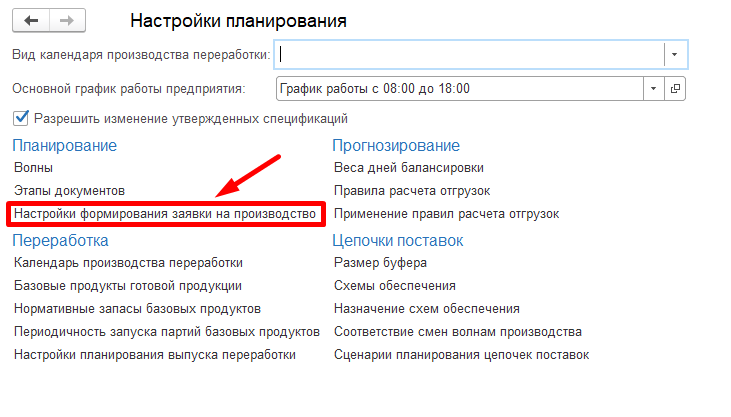
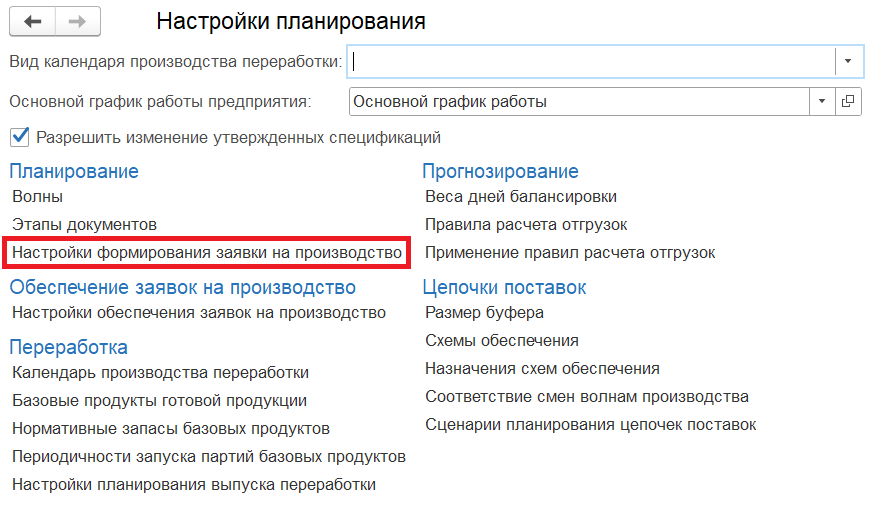
new: обеспечение заявок на производство

Changed region(s): [[0.0, 0.0, 0.9932, 0.9664]]

diff --git a/docs/Planning/ApplicationsForProduction.md b/docs/Planning/ApplicationsForProduction.md
@@ -1,0 +1,134 @@
+# Обеспечение заявок на производство
+
+АРМ **"Обеспечение заявок на производство"** включает функционал разузлования потребности по заявкам на производство, формирования производственных заданий и заказов на перемещение. Он расположен в разделе  **"Обеспечение заявок на производство"** в подсистеме **"Планирование"**.
+
+[![1][1]][1]
+
+Для заполнения настроек АРМа используются ["Настройки обеспечения заявок на производство"](Settings/ApplicationsForProduction.md).
+
+[![2][2]][2]
+
+---
+
+На вкладке **"Потребность по заявкам"** при нажатии на кнопку *"Обновить"* выводится потребность из документа **"Заявка на производство"**, распределенная по [рабочими центрами](../CommonInformation/WorkCenter.md).
+
+[![3][3]][3]
+
+Заявки подбираются по дате планирования (соответствует дате задания из заявки), настройке формирования, виду заявки, этапу для чтения и отборам из указанных в АРМе настроек.
+
+Количество продукции из заявок автоматически распределяется в равных долях между всеми [рабочими центрами](../CommonInformation/WorkCenter.md), на которых выпускается продукция. Если для продукции подобран один [рабочий центр](../CommonInformation/WorkCenter.md), то количество недоступно для редактирования; в других случаях есть возможность отредактировать полученное количество вручную.
+
+---
+
+На вкладке **"Запуск в производство"** при нажатии на кнопку *"Обновить"* происходит разузлование потребности из заявок по всем этапам производственной цепочки - от конечной продукции до сырья.
+
+[![4][4]][4]
+
+Данные в строках верхнего уровня заполняются в соответствии с заявленной потребностью, а последующие строки дерева формируются в процессе разузлования по данным из основных спецификаций. В системе разузлование доступно для продукции с типом *"Полуфабрикат"* и *"Базовый продукт"*, а также для *немаркированной* готовой продукции (в характеристике указан флаг *"Немаркированная продукция"*). 
+
+Если в этапе спецификации указано несколько [рабочих центров](../CommonInformation/WorkCenter.md), то в дереве будут отражены данные по всем [рабочим центрам](../CommonInformation/WorkCenter.md). Склад выпуска заполняется из рабочего центра.
+
+Количество в колонке *"Потребность"* рассчитывается исходя из коэффициента выхода по спецификации и распределяется в равных долях между [рабочими центрами](../CommonInformation/WorkCenter.md).
+
+Кратность партии для данных верхнего уровня будет заполнена согласно данным из заявки на производство, а для строк, разузлованных по спецификациям, получается из настроек партии запуска.
+
+В колонке *"Партионная потребность"* количество заполняется согласно потребности в производстве, округлённой вверх по кратности партии. Например, если количество потребности равно 80, а кратность в спецификации заполнена и равна 50, то партионная потребность будет равна 100. Если кратность партии не указана, то партионная потребность будет равна потребности.
+
+Дата маркировки доступна для заполнения, если она не была указана в заявке на производство. Дата смены заполняется автоматически согласно дате планирования, но для производимой продукции её можно изменить вручную.
+
+По кнопке *"Обеспечить"* рассчитывается **количество к производству**, исходя из потребности и количества остатка, которым можно обеспечить эту потребность.
+
+[![5][5]][5]
+
+В процессе обеспечения для каждой строки дерева производства происходит автоматический расчёт остатка, доступного для обеспечения потребности (частично или полностью). При этом доступный для обеспечения остаток динамически уменьшается, если он уже был использован для обеспечения в строках выше. Итоговое количество к производству по строке будет рассчитано исходя из потребности и обеспечения этой потребности остатком.
+
+При необходимости можно скорректировать количество к производству. Необходимо вносить изменения, начиная с верхнего уровня дерева (например, готовой продукции), последовательно спускаясь к сырью. Если при корректировке количества к производству в какой‑либо строке использовался остаток, то автоматически пересчитаются все нижестоящие строки с учётом обновлённого значения доступного остатка.
+
+По кнопке *"Сохранить"* происходит формирование производственных заданий согласно данным запуска в производство.
+
+[![6][6]][6]
+
+Производственные задания сохраняются согласно настройке *"Объединять запуск в производственных заданиях"*. Если флаг установлен, то производственные задания будут формироваться в разрезе [рабочих центров](../CommonInformation/WorkCenter.md) с суммированием количества одинаковой продукции. Основанием корневого производственного задания будет заявка на производство, все последующие задания сформируются на основании корневого задания. Если флаг не установлен, то для каждой производственной цепочки (от готовой продукции/полуфабриката/базового продукта до сырья) сформируются отдельные производственные задания без объединения количества одинаковой продукции. Основанием корневого производственного задания будет заявка на производство, все последующие задания сформируются на основании предыдущих, отражая цепочку зависимых документов.
+
+Если в процессе разузлования возникли ошибки и они отражены на вкладке **"Ошибки НСИ"**, то при сохранении будет выведено сообщение с вопросом о сохранении документов.
+
+---
+
+На вкладке **"Ошибки НСИ"** выводятся ошибки, полученные в результате разузлования потребности по заявкам. Ошибки показывают отсутствие спецификации для номенклатуры, рабочего центра в этапе производства, склада выпуска в рабочем центре.
+
+[![7][7]][7]
+
+---
+
+На вкладке **"Формирование перемещений"** по кнопке *"Обновить"* происходит расчёт потребности к перемещению со склада на склад. Необходимость обеспечения между складами определяется настройкой *"Требуется обеспечение по складам"* в рабочем центре. Если признак не установлен, то производственные задания по этому рабочему центру не будут участвовать в формировании [заказов на перемещение](../Warehouse/MovingProducts/TransferOrder.md).
+
+[![8][8]][8]
+
+Склад-получатель заполняется согласно складам основных и вспомогательных материалов из рабочего центра. Если склад основных материалов один и совпадает со складом вспомогательных материалов, то склад-получатель заполнится автоматически. При наличии нескольких складов необходимо выбрать склад вручную из доступных вариантов в списке.
+
+[![9][9]][9]
+
+Склад-отправитель будет выбран из склада выпуска, указанного в карточке номенклатуры.
+
+Дата перемещения автоматически устанавливается равной дате смены из производственного задания. При необходимости её можно изменить вручную.
+
+По кнопке *"Обеспечить - С учетом остатка"*, исходя из потребности и количества остатка, которым можно обеспечить эту потребность,  рассчитывается **количество к перемещению**. 
+
+[![10][10]][10]
+
+При обеспечении происходит автоматический расчёт остатка, который может частично или полностью покрыть потребность к перемещению. При этом доступный для обеспечения остаток динамически уменьшается, если он уже был использован для обеспечения в строках выше.
+
+По кнопке *"Обеспечить - Без учета остатка"* количество в колонке *"К перемещению"* заполняется согласно потребности 1 к 1, без учёта остатка.
+
+[![11][11]][11]
+
+Количество к перемещению доступно для редактирования. При внесении изменений в текущей строке остаток пересчитывается, а данные по обеспечению и количеству к перемещению в последующих строках, относящихся к той же продукции и складу, актуализируются.
+
+По кнопке *"Сохранить"* происходит формирование заказов на перемещение на основании производственных заданий.
+
+[![12][12]][12]
+
+Строки с продукцией, по которой введено *"Разрешение на замену материалов"* и доступен выбор аналога, выделены восклицательным знаком. При изменении продукции на аналог количество в колонке *"Потребность"* пересчитается по коэффициенту замены.
+
+[![13][13]][13]
+
+---
+
+**Восстановление контекста**
+
+Функционал восстановления контекста в АРМе предназначен для следующих сценариев:
+
+- раздельное формирование производственных заданий и заказов на перемещение;
+
+- формирование новых заявок на производство (дозаказ) в ходе текущих производственных процессов с последующим обеспечением в АРМе.
+
+В этом случае работа АРМа будет отличаться следующим образом:
+
+На вкладке **"Потребность по заявкам"** при нажатии на кнопку *"Обновить"* будет выведена потребность из документа **"Заявка на производство"** вне зависимости от наличия производственного задания. Однако заявки на производство, по которым уже создано производственное задание, блокируются для редактирования (такие строки выделены серым цветом).
+
+[![14][14]][14]
+
+На вкладке **"Запуск в производство"** при нажатии на кнопку *"Обновить"* данные по заблокированным строкам потребности не восстанавливаются, разузлование происходит только для потребности из заявок без производственных заданий.
+
+[![15][15]][15]
+
+На вкладке **"Формирование перемещений"** при нажатии на кнопку *"Обновить"* будет выведена потребность к перемещению по всем производственным заданиям (и по тем, что относятся к "заблокированным" заявкам, и по созданным производственным заданиям для новых заявок). Однако, если по какой‑либо потребности уже был создан заказ на перемещение, строка будет заблокирована для редактирования (выделена серым цветом).
+
+[![16][16]][16]
+
+[1]: ApplicationsForProduction.assets/1.png
+[2]: ApplicationsForProduction.assets/2.png
+[3]: ApplicationsForProduction.assets/3.png
+[4]: ApplicationsForProduction.assets/4.png
+[5]: ApplicationsForProduction.assets/5.png
+[6]: ApplicationsForProduction.assets/6.png
+[7]: ApplicationsForProduction.assets/7.png
+[8]: ApplicationsForProduction.assets/8.png
+[9]: ApplicationsForProduction.assets/9.png
+[10]: ApplicationsForProduction.assets/10.png
+[11]: ApplicationsForProduction.assets/11.png
+[12]: ApplicationsForProduction.assets/12.png
+[13]: ApplicationsForProduction.assets/13.png
+[14]: ApplicationsForProduction.assets/14.png
+[15]: ApplicationsForProduction.assets/15.png
+[16]: ApplicationsForProduction.assets/16.png

diff --git a/docs/Planning/Settings/ApplicationsForProduction.md b/docs/Planning/Settings/ApplicationsForProduction.md
@@ -1,0 +1,34 @@
+# Настройки обеспечения заявок на производство
+
+**Настройки обеспечения заявок на производство** используются для заполнения настроек в АРМе ["Обеспечение заявок на производство"](../ApplicationsForProduction.md).
+
+Справочник расположен в **"Настройках планирования"** - **"Настройки обеспечения заявок на производство"**.
+
+[![1][1]][1]
+
+В настройке указываются:
+
+[![2][2]][2]
+
+- *Наименование* - наименование настройки планирования;
+- *Дата планирования* - дата планирования для подбора документа **"Заявка на производство"**;
+- *Дата остатков* - дата для подбора остатков;
+- *[Настройка формирования заявки](Planning/SettingsFormingApplicationsForProduction.md)* - настройка с товарными категориями для подбора документа **"Заявка на производство"**;
+- *Вид заявки на производство (Производство, Упаковка и маркировка)* - вид заявки на производство для отбора. Из заявок с видом "Производство" подбирается продукция с типом номенклатуры *"Полуфабрикат", "Базовый продукт" и "Готовая продукция"*. Из заявок с видом "Упаковка и маркировка" подбирается продукция с типом номенклатуры *"Готовая продукция"*;
+- *Объединять запуск в производственных заданиях* - флаг объединения запуска при сохранении производственных заданий. Если флаг установлен, то производственные задания будут формироваться в разрезе [рабочих центров](../../CommonInformation/WorkCenter.md) с суммированием количества одинаковой продукции. Основанием корневого производственного задания будет заявка на производство, все последующие задания сформируются на основании корневого задания. Если флаг не установлен, то для каждой производственной цепочки (от готовой продукции/полуфабриката/базового продукта до сырья) сформируются отдельные производственные задания без объединения количества одинаковой продукции;
+- *Этап заявки на производство для чтения* - этап для чтения данных из документа **"Заявка на производство"**;
+- *Этап заявки на перемещение для записи* - этап, в котором будут сохранены [заказы на перемещение](../../Warehouse/MovingProducts/TransferOrder.md);
+
+- *Отборы, по которым будут подобраны потребности из заявок на производство*:
+> - Склады выпуска;
+> - Исключаемая номенклатура;
+> - Товарные категории;
+> - Производители.
+
+*Если отборы не заполнены, то будет выведена вся потребность из заявок на производство.*
+
+- *Описание* - описание для настройки планирования;
+- *Автор*.
+
+[1]: ApplicationsForProduction.assets/1.png  
+[2]: ApplicationsForProduction.assets/2.png

diff --git a/docs/Manufacture/Cheese/MilkReceiving/ReceivingWithoutPlan/ReceivingWithoutPlan.md b/docs/Manufacture/Cheese/MilkReceiving/ReceivingWithoutPlan/ReceivingWithoutPlan.md
@@ -60,7 +60,7 @@
 
 - Чтобы принять еще один отвес сырья, нажимаем кнопку **"Новый отвес"**. 
 
-- Если в партии обнаружен брак, необходимо взвесить его, нажав соответствующую кнопку. Подробнее о приемке брака читайте в разделе ["Отбраковка"](./Rejection.md)
+- Если в партии обнаружен брак, необходимо взвесить его, нажав соответствующую кнопку. Подробнее о приемке брака читайте в разделе ["Отбраковка"](../../../Meat/Boning/Rejection.md)
 
 Открывается окно со списком партий. Колонка **"Факт"** заполнилась по введенным данным.
 

diff --git a/docs/Planning/Settings/SupplyChains/AssignmentProvisioningSchemes.md b/docs/Planning/Settings/SupplyChains/AssignmentProvisioningSchemes.md
@@ -1,4 +1,4 @@
-# Соответствие схем волнам производства
+# Соответствие смен волнам производства
 
 Для автоматического формирования производственных заданий из АРМа "Планирование цепочек поставок" необходимо понимать соответствие смены и волны производства.
 
